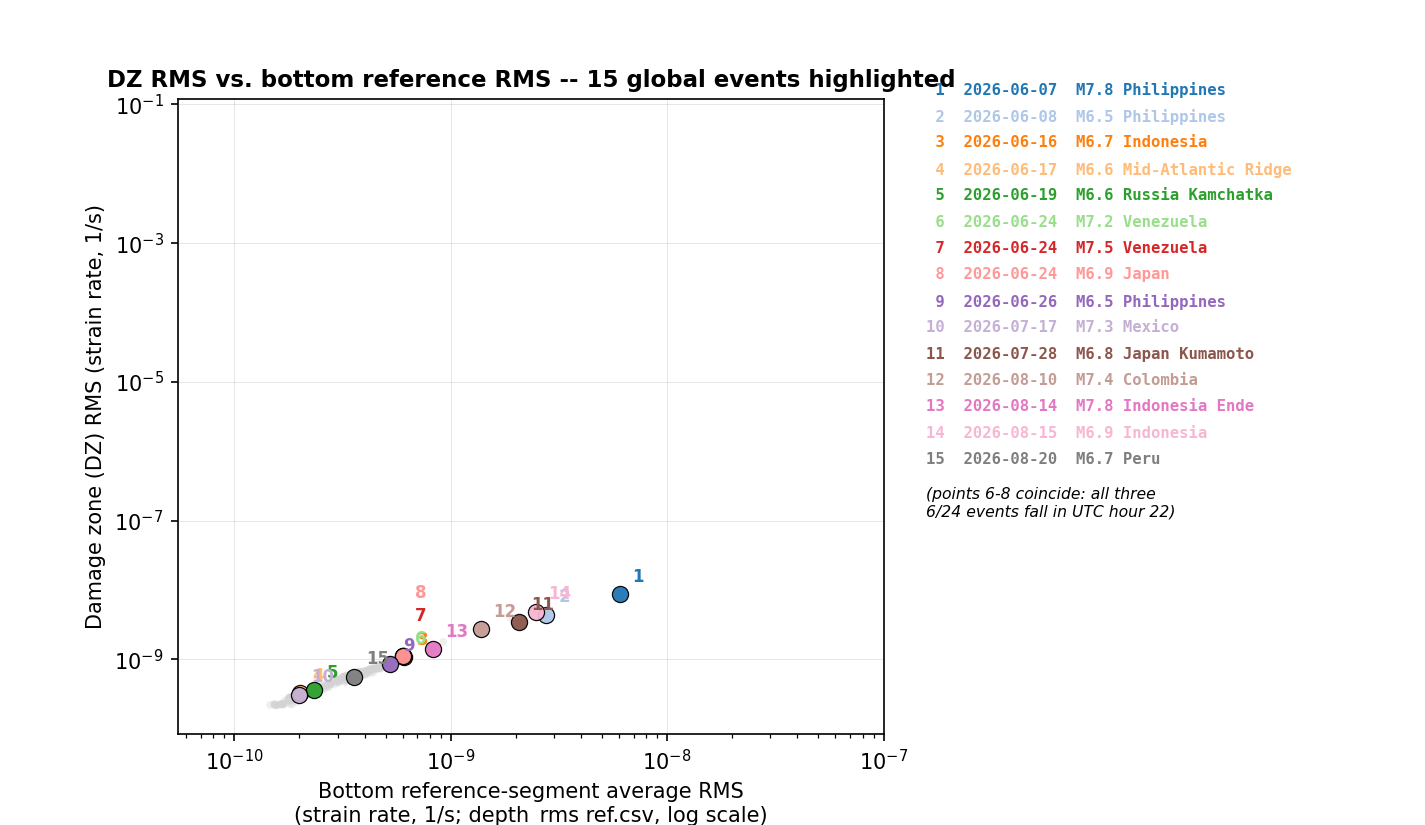
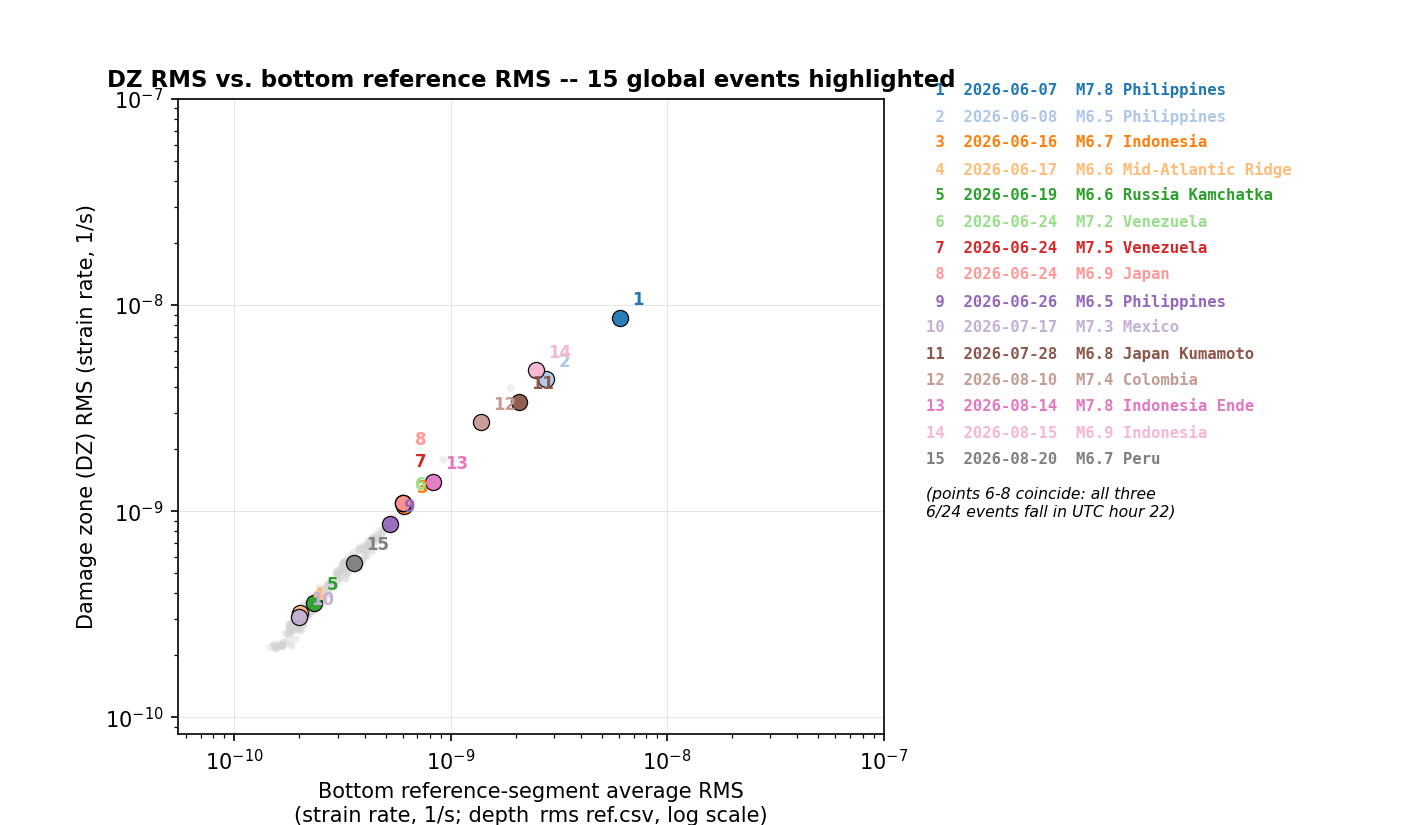
Cap DZ/FZ y-axis and FZ/DZ ratio x-axis at 1e-7 across all 6 scatter plots
Applies the same 1e-7 zoom to the plain (all-hours) versions that was
already done for the event-highlighted versions, plus adds a y-axis cap
(DZ/FZ plots) and x-axis cap (ratio plot) for consistency.

diff --git a/scripts/plot_zone_vs_ref_scatter_events.py b/scripts/plot_zone_vs_ref_scatter_events.py
@@ -55,7 +55,7 @@ N_EVENTS = 15
 EVENT_COLORS = [plt.cm.tab20(i / 19) for i in range(N_EVENTS)]
 
 
-def scatter_with_events(bg, ev, ycol, ylabel, title, out_png, log_y=False, xlim_hi=None):
+def scatter_with_events(bg, ev, ycol, ylabel, title, out_png, log_y=False, xlim_hi=None, ylim_hi=None):
     fig, ax = plt.subplots(figsize=(9.5, 5.5))
     ax.scatter(bg["ref_rms"], bg[ycol], s=14, alpha=0.35,
                c="lightgray", edgecolor="none", zorder=1, label="all hours")
@@ -76,6 +76,9 @@ def scatter_with_events(bg, ev, ycol, ylabel, title, out_png, log_y=False, xlim_
     if xlim_hi is not None:
         lo, _ = ax.get_xlim()
         ax.set_xlim(lo, xlim_hi)
+    if ylim_hi is not None:
+        lo, _ = ax.get_ylim()
+        ax.set_ylim(lo, ylim_hi)
     ax.set_xlabel("Bottom reference-segment average RMS\n"
                    "(strain rate, 1/s; depth_rms ref.csv, log scale)", fontsize=10)
     ax.set_ylabel(ylabel, fontsize=10)
@@ -106,13 +109,16 @@ def main():
 
     scatter_with_events(bg, ev, "rms_damage", "Damage zone (DZ) RMS (strain rate, 1/s)",
                          "DZ RMS vs. bottom reference RMS -- 15 global events highlighted",
-                         os.path.join(OUT_DIR, "dz_vs_ref_rms_events.png"), log_y=True, xlim_hi=1e-7)
+                         os.path.join(OUT_DIR, "dz_vs_ref_rms_events.png"), log_y=True,
+                         xlim_hi=1e-7, ylim_hi=1e-7)
     scatter_with_events(bg, ev, "rms_fault", "Fault zone (FZ) RMS (strain rate, 1/s)",
                          "FZ RMS vs. bottom reference RMS -- 15 global events highlighted",
-                         os.path.join(OUT_DIR, "fz_vs_ref_rms_events.png"), log_y=True, xlim_hi=1e-7)
+                         os.path.join(OUT_DIR, "fz_vs_ref_rms_events.png"), log_y=True,
+                         xlim_hi=1e-7, ylim_hi=1e-7)
     scatter_with_events(bg, ev, "fz_dz_ratio", "FZ / DZ RMS ratio",
                          "FZ/DZ ratio vs. bottom reference RMS -- 15 global events highlighted",
-                         os.path.join(OUT_DIR, "fz_dz_ratio_vs_ref_rms_events.png"), log_y=False)
+                         os.path.join(OUT_DIR, "fz_dz_ratio_vs_ref_rms_events.png"), log_y=False,
+                         xlim_hi=1e-7)
 
 
 if __name__ == "__main__":

diff --git a/scripts/plot_zone_vs_ref_scatter.py b/scripts/plot_zone_vs_ref_scatter.py
@@ -43,13 +43,19 @@ def load_all():
     return df
 
 
-def scatter(df, ycol, ylabel, title, out_png, log_y=False):
+def scatter(df, ycol, ylabel, title, out_png, log_y=False, xlim_hi=None, ylim_hi=None):
     fig, ax = plt.subplots(figsize=(6.5, 5.5))
     ax.scatter(df["ref_rms"], df[ycol], s=18, alpha=0.65,
                c="steelblue", edgecolor="black", linewidth=0.3)
     ax.set_xscale("log")
     if log_y:
         ax.set_yscale("log")
+    if xlim_hi is not None:
+        lo, _ = ax.get_xlim()
+        ax.set_xlim(lo, xlim_hi)
+    if ylim_hi is not None:
+        lo, _ = ax.get_ylim()
+        ax.set_ylim(lo, ylim_hi)
     ax.set_xlabel("Bottom reference-segment average RMS\n"
                    "(strain rate, 1/s; depth_rms ref.csv, log scale)", fontsize=10)
     ax.set_ylabel(ylabel, fontsize=10)
@@ -67,13 +73,16 @@ def main():
 
     scatter(df, "rms_damage", "Damage zone (DZ) RMS (strain rate, 1/s)",
             "DZ RMS vs. bottom reference RMS",
-            os.path.join(OUT_DIR, "dz_vs_ref_rms.png"), log_y=True)
+            os.path.join(OUT_DIR, "dz_vs_ref_rms.png"), log_y=True,
+            xlim_hi=1e-7, ylim_hi=1e-7)
     scatter(df, "rms_fault", "Fault zone (FZ) RMS (strain rate, 1/s)",
             "FZ RMS vs. bottom reference RMS",
-            os.path.join(OUT_DIR, "fz_vs_ref_rms.png"), log_y=True)
+            os.path.join(OUT_DIR, "fz_vs_ref_rms.png"), log_y=True,
+            xlim_hi=1e-7, ylim_hi=1e-7)
     scatter(df, "fz_dz_ratio", "FZ / DZ RMS ratio",
             "FZ/DZ ratio vs. bottom reference RMS",
-            os.path.join(OUT_DIR, "fz_dz_ratio_vs_ref_rms.png"), log_y=False)
+            os.path.join(OUT_DIR, "fz_dz_ratio_vs_ref_rms.png"), log_y=False,
+            xlim_hi=1e-7)
 
 
 if __name__ == "__main__":
